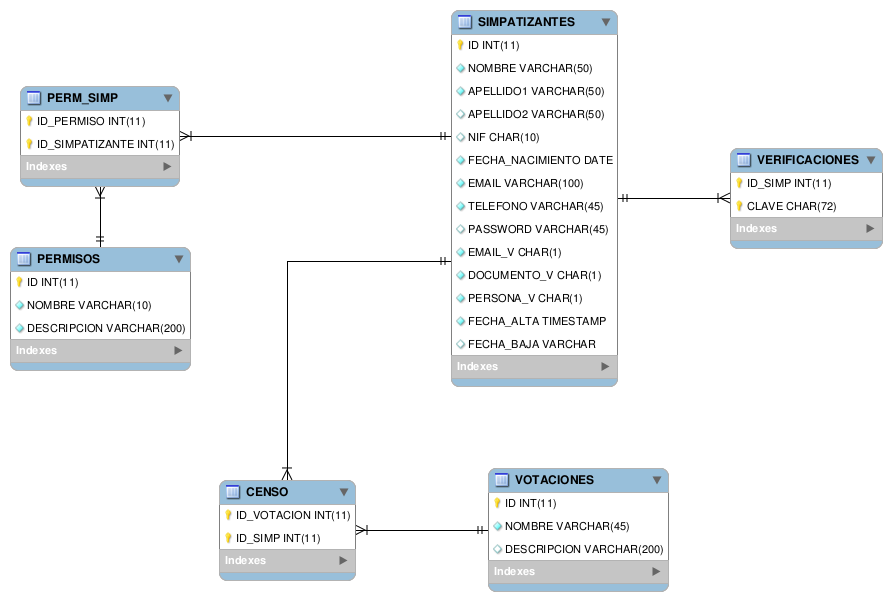
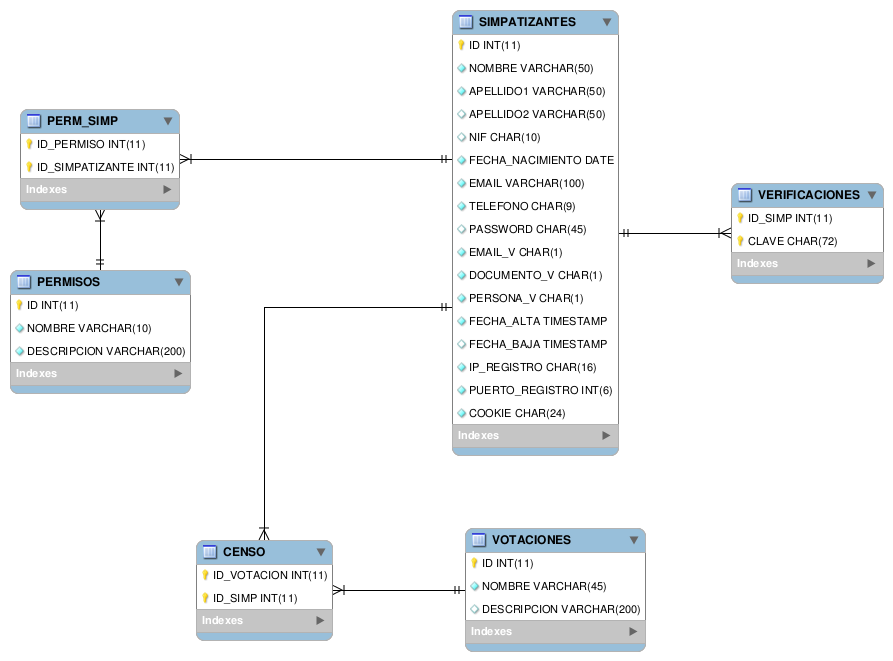
Se añade el uso de cookies para seguridad. Se separa la IP en IP y puerto. Se envían mensajes de inserción correcta.

Changed region(s): [[0.0, 0.0, 0.9989, 0.6889], [0.2119, 0.7787, 0.7567, 0.9884], [0.0, 0.3894, 0.2119, 0.629]]

diff --git a/web/js/censoWeb.js b/web/js/censoWeb.js
@@ -27,6 +27,14 @@ function inicio() {
 	} else {
 		jQuery("#divError").hide();
 	}
+	
+	if (typeof(mensajeOk) != "undefined") {
+		jQuery("#divOk").html(mensajeOk);
+		jQuery("#divOk").show();
+	} else {
+		jQuery("#divOk").hide();
+	}
+	
 }
 
 function polPriv() {

diff --git a/web/lib/comunCenso.php b/web/lib/comunCenso.php
@@ -21,7 +21,7 @@
  * @param string $cp
  * @return resource devuelve true si se ejecutó correctamente, false en caso contrario.
  */
-function altaSimpatizanteWeb ($nombre, $apellido1, $apellido2, $nif, DateTime $fchaNacimiento, $email, $telefono, $ip) {
+function altaSimpatizanteWeb ($nombre, $apellido1, $apellido2, $nif, DateTime $fchaNacimiento, $email, $telefono, $ip, $puerto, $cookie) {
 	global $DEBUG;
 	global $enlace;
 	global $TABLE_PREFIX;
@@ -36,8 +36,8 @@ function altaSimpatizanteWeb ($nombre, $apellido1, $apellido2, $nif, DateTime $f
 		$nif= $enlace->real_escape_string($nif);
 	}
 
-	$consulta = sprintf("INSERT INTO " . $TABLE_PREFIX . "SIMPATIZANTES (NOMBRE, APELLIDO1, APELLIDO2, NIF, FECHA_NACIMIENTO, EMAIL, TELEFONO, IP_REGISTRO)
-		    VALUES ('%s','%s','%s','%s','%s','%s','%s','%s')",
+	$consulta = sprintf("INSERT INTO " . $TABLE_PREFIX . "SIMPATIZANTES (NOMBRE, APELLIDO1, APELLIDO2, NIF, FECHA_NACIMIENTO, EMAIL, TELEFONO, IP_REGISTRO, PUERTO_REGISTRO, COOKIE)
+		    VALUES ('%s','%s','%s','%s','%s','%s','%s','%s',%d, '%s')",
 			$enlace->real_escape_string($nombre),
 			$enlace->real_escape_string($apellido1),
 			$apellido2,
@@ -45,19 +45,19 @@ function altaSimpatizanteWeb ($nombre, $apellido1, $apellido2, $nif, DateTime $f
 			formatearFechaBD($fchaNacimiento),
 			$enlace->real_escape_string($email),
 			$enlace->real_escape_string($telefono),
-			$enlace->real_escape_string($ip)
+			$enlace->real_escape_string($ip),
+			$puerto,
+			$enlace->real_escape_string($cookie)
 	);
 
-	if ($DEBUG) {
+	/*if ($DEBUG) {
 		echo $consulta;
-	}
+	}*/
 
 	// Ejecutar la consulta
 	$resultado = $enlace->query($consulta);
 
-	if (!$resultado && $DEBUG) {
-		echo "'" . $consulta . "' Devolvió " . $enlace->error;
-	} else {
+	if ($resultado) {
 		$idInsertado= $enlace->insert_id;
 		if ($_POST["identificacion"]=="padron") {
 			$msgIncorrecto= guardarImagenSubida("padron",$idInsertado . "_padron");
@@ -70,13 +70,6 @@ function altaSimpatizanteWeb ($nombre, $apellido1, $apellido2, $nif, DateTime $f
 	
 		//Comprobamos que se hayan guardado todas las imágenes, si no es así, se elimina la entrada.
 		if ($msgIncorrecto) {
-			echo <<<EOT
-<h1 class="error">
-EOT;
-			echo $msgIncorrecto;
-			echo <<<EOT
-</h1>
-EOT;
 			borrarSimpatizante ($idInsertado, null);
 		}
 
@@ -96,14 +89,14 @@ function borrarSimpatizante ($id, $erroneo) {
 		);
 	}
 
-	if ($DEBUG) {
+	/*if ($DEBUG) {
 		echo $consulta;
-	}
+	}*/
 
 	// Ejecutar la consulta
 	$resultado = $enlace->query($consulta);
 	
-	if (!$resultado && $DEBUG) {
+	/*if (!$resultado && $DEBUG) {
 		echo "'" . $consulta . "' Devolvió " . $enlace->error;
-	}
+	}*/
 }

diff --git a/web/censo/index.php b/web/censo/index.php
@@ -6,6 +6,21 @@ if (!(include_once dirname(__FILE__).'/../lib/comunCenso.php')) {
 	die ("Falta el archivo comunCenso.php");
 }
 
+//Comprobamos si tiene la cookie
+if (!isset($_COOKIE["_suef"])) {
+	//Recuperamos el dominio
+	$domain = ($_SERVER['HTTP_HOST'] != 'localhost') ? $_SERVER['HTTP_HOST'] : false;
+	
+	$idAleatorio=textoAleatorio($CONFIG["TA_TAMANO"],$CONFIG["TA_GRUPOS"],$CONFIG["TA_SEPARADOR"]);
+	
+	//Enviamos la cookie
+	setcookie('_suef', $idAleatorio, time()+60*60*24*365, '/', $domain, false);
+	
+	//La guardamos por si fuera necesaria en esta conexión
+	$_COOKIE["_suef"] = $idAleatorio;
+	
+}
+
 ?>
 
 
@@ -24,7 +39,7 @@ if (!(include_once dirname(__FILE__).'/../lib/comunCenso.php')) {
 		
 		<script type="text/javascript">
 		<?php 
-		if ($_POST["identificacion"]) {
+		if (isset($_POST["identificacion"])) {
 			if (!isset($_POST["declaracion"])) {
 				echo "mensajeError='Debe aceptar la declaracion de valores';";
 			} else {
@@ -41,8 +56,14 @@ if (!(include_once dirname(__FILE__).'/../lib/comunCenso.php')) {
 					}
 				
 					//Damos de alta al simpatizante
-					altaSimpatizanteWeb ($_POST["nombre"], $_POST["apellido1"], $_POST["apellido2"], $_POST["nif"],
-					$fchaNac, $_POST["email"], $_POST["telefono"], $_SERVER["REMOTE_ADDR"] . ":" . $_SERVER["REMOTE_PORT"]);
+					$resultado= altaSimpatizanteWeb ($_POST["nombre"], $_POST["apellido1"], $_POST["apellido2"], $_POST["nif"],
+						$fchaNac, $_POST["email"], $_POST["telefono"], $_SERVER["REMOTE_ADDR"], $_SERVER["REMOTE_PORT"], $_COOKIE["_suef"]);
+					
+					if (!$resultado) {
+						echo "mensajeError='Ocurrió un error al dar de alta al simpatizante. Vuelva a intentarlo más tarde';";
+					} else {
+						echo "mensajeOk='" . $_POST["nombre"] . " ha sido dado de alta correctamente';";
+					}
 				}
 			}
 		}
@@ -51,6 +72,7 @@ if (!(include_once dirname(__FILE__).'/../lib/comunCenso.php')) {
 	</head>
 	<body class="container" onload="inicio()">
 		<div id="divError" class="alert alert-warning"></div>
+		<div id="divOk" class="alert alert-success"></div>
 		<form action="" accept-charset="utf-8" method="post" enctype="multipart/form-data" role="form" class="form-horizontal" >
 			<div class="form-group">
 				<label for="nombre" class="control-label col-sm-2">Nombre: </label>

diff --git a/web/lib/util.php b/web/lib/util.php
@@ -26,15 +26,15 @@ function leerFecha ($cadenaFecha) {
 	global $FORMATO_FECHATIEMPO;
 	global $DEBUG;
 
-	if ($DEBUG) {
+	/*if ($DEBUG) {
 		echo "leerFecha " . $cadenaFecha;
-	}
+	}*/
 	
 	$fecha= DateTime::createFromFormat ($FORMATO_FECHATIEMPO, $cadenaFecha . " 00:00:00") ;
 	
-	if ($DEBUG) {
+	/*if ($DEBUG) {
 		echo "fecha leida: " . var_dump($fecha);
-	}
+	}*/
 	
 	if ($fecha && checkdate($fecha->format("m"), $fecha->format("d"), $fecha->format("Y")) && _comprobarHora($fecha)) {
 		return $fecha;
@@ -204,3 +204,43 @@ function provincia ($codPostal) {
 	return $PROVINCIA[$codProvincia];
 }
 
+
+/**
+ * Genera un texto aleatorio del tamaño $tam. El texto estará separado en grupos de $grupos caracteres si se especifica.
+ * @param number $tam Tamaño total de la cadena (incluidos separadores)
+ * @param number $grupos e.g.: si $grupos es 4 -> abcd-efgh-ijkl
+ * @param string $separador caracter separador ¡Debe ser un solo caracter!
+ * @return la cadena de texto aleatoria generada
+ */
+function textoAleatorio ($tam, $grupos = 0, $separador = "c") {
+	if ($grupos < 1) {
+		$grupos = 0;
+	} else {
+		//Sumamos uno para que mod funcione correctamente
+		$grupos += 1;
+	}
+	$cadena="";
+	for ($i=0; $i<$tam;$i++) {
+		if ($grupos != 0 && (($i+1) % $grupos == 0)) {
+			$cadena = $cadena . $separador;
+		} else {
+			$cadena = $cadena . caracterAleatorio();
+		}
+	}
+	
+	return $cadena;
+}
+
+/**
+ * @return Devuelve un caracter aleatorio [0-9a-zA-Z]
+ */
+function caracterAleatorio() {
+	$num= mt_rand(48, 109);
+	if ($num > 57) {
+		$num += 7;
+	}
+	if ($num > 90) {
+		$num += 6;
+	}
+	return chr($num);
+}

diff --git a/web/lib/comun.php b/web/lib/comun.php
@@ -35,9 +35,9 @@ function conectarBD () {
 			echo <<<EOT
 <h1 class="error">Ocurrió un error al acceder a la base de datos (A002)</h1>
 EOT;
-			if ($DEBUG) {
+			/*if ($DEBUG) {
 				echo $enlace->error;
-			}
+			}*/
 		} else {
 			if ($enlace->connect_errno) {
 				echo "Error de conexión: " . $enlace->connect_error;
